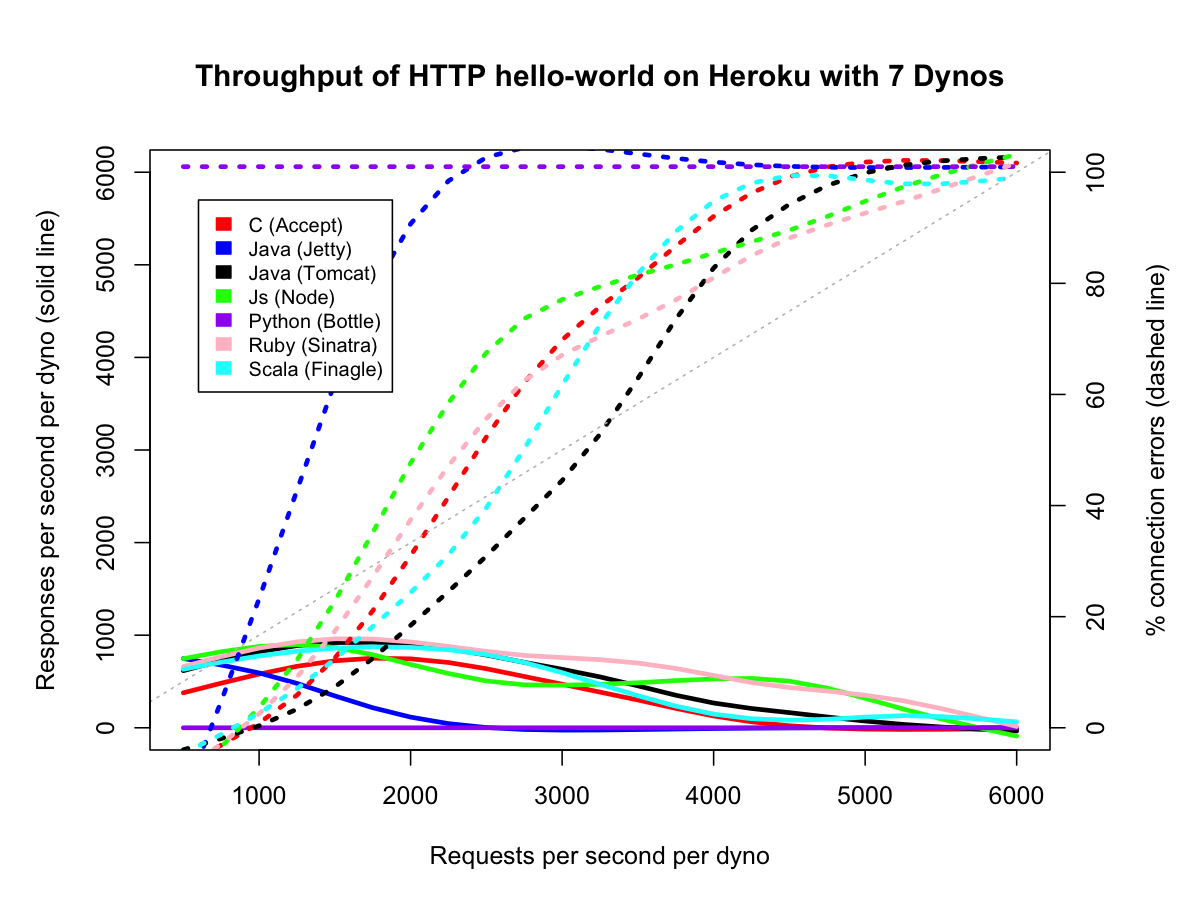
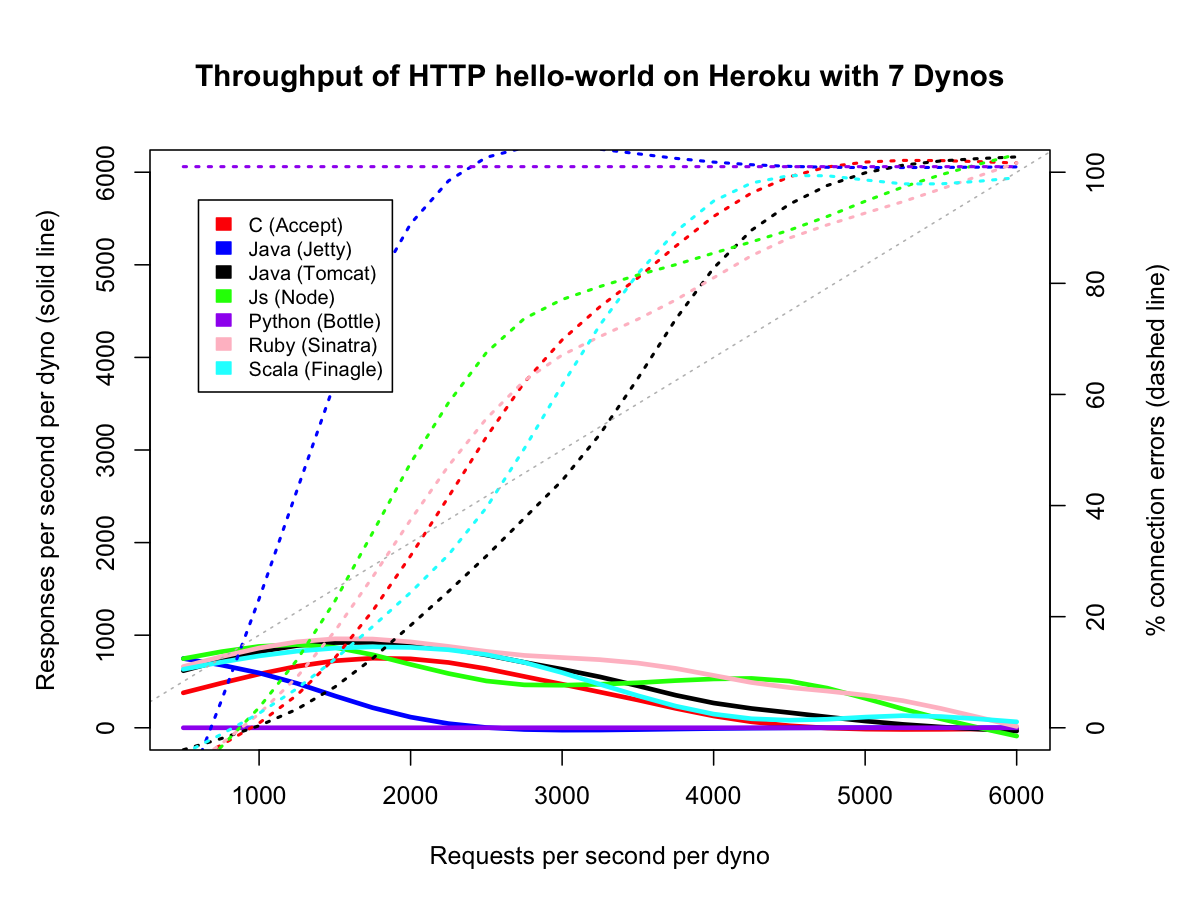
Smaller errors line.

diff --git a/chart.rb b/chart.rb
@@ -88,7 +88,7 @@ File.open('tmp/chart.r', 'w') do |file|
       par(new=T)
       plot(dem_req_rate, #{y}, ylim=c(0,range_errors), axes=F, ann=F, type='n')
       smooth = smooth.spline(dem_req_rate, #{y}, spar=smoothness)
-      lines(predict(smooth, dem_req_rate), col='#{colors[i]}', lwd=3, lty=3)
+      lines(predict(smooth, dem_req_rate), col='#{colors[i]}', lwd=2, lty=3)
     plotter
     i = i + 1
   end
